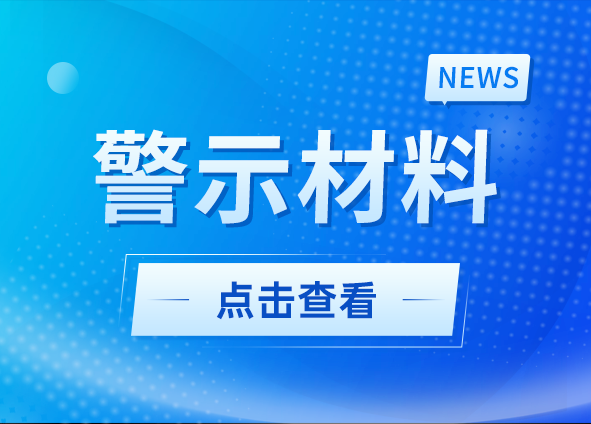
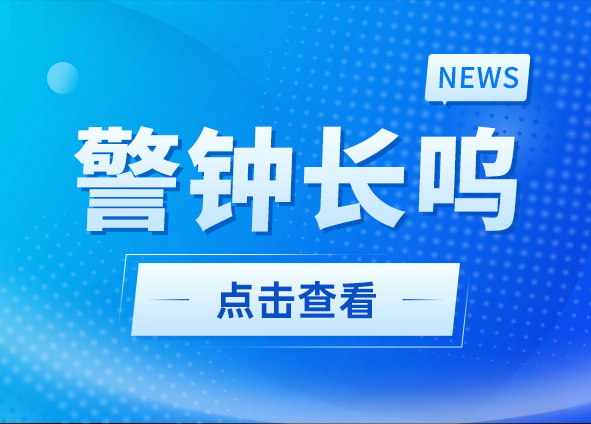
fix: 警示材料文字更改

Changed region(s): [[0.1218, 0.2759, 0.8832, 0.5519]]

diff --git a/src/views/home/index.vue b/src/views/home/index.vue
@@ -199,7 +199,7 @@ watch(
       </van-grid>
     </div>
 
-    <!-- 警示材料 -->
+    <!-- 警示教育 -->
     <div class="warning-material">
       <div class="head">
         <h3 class="name">
@@ -207,7 +207,7 @@ watch(
             src="@/assets/material_icon@3x.png"
             alt=""
             class="w-[34px] h-[34px] pr-[7px]"
-          />警示材料
+          />警示教育
         </h3>
         <router-link to="/caution" class="more"
           >更多 <van-icon name="arrow"

diff --git a/src/types/global.d.ts b/src/types/global.d.ts
@@ -2,7 +2,7 @@
  * @Description:
  * @Author: 辰月
  * @Date: 2023-09-09 09:56:03
- * @LastEditTime: 2023-11-03 12:46:09
+ * @LastEditTime: 2023-11-03 16:53:34
  * @LastEditors: 辰月
  */
 declare global {
@@ -12,6 +12,7 @@ declare global {
     getUserId: () => string;
     getAddress: () => string;
     getUserCredential: () => string;
+    getAppCredential: () => string;
   }
 
   interface Window {
